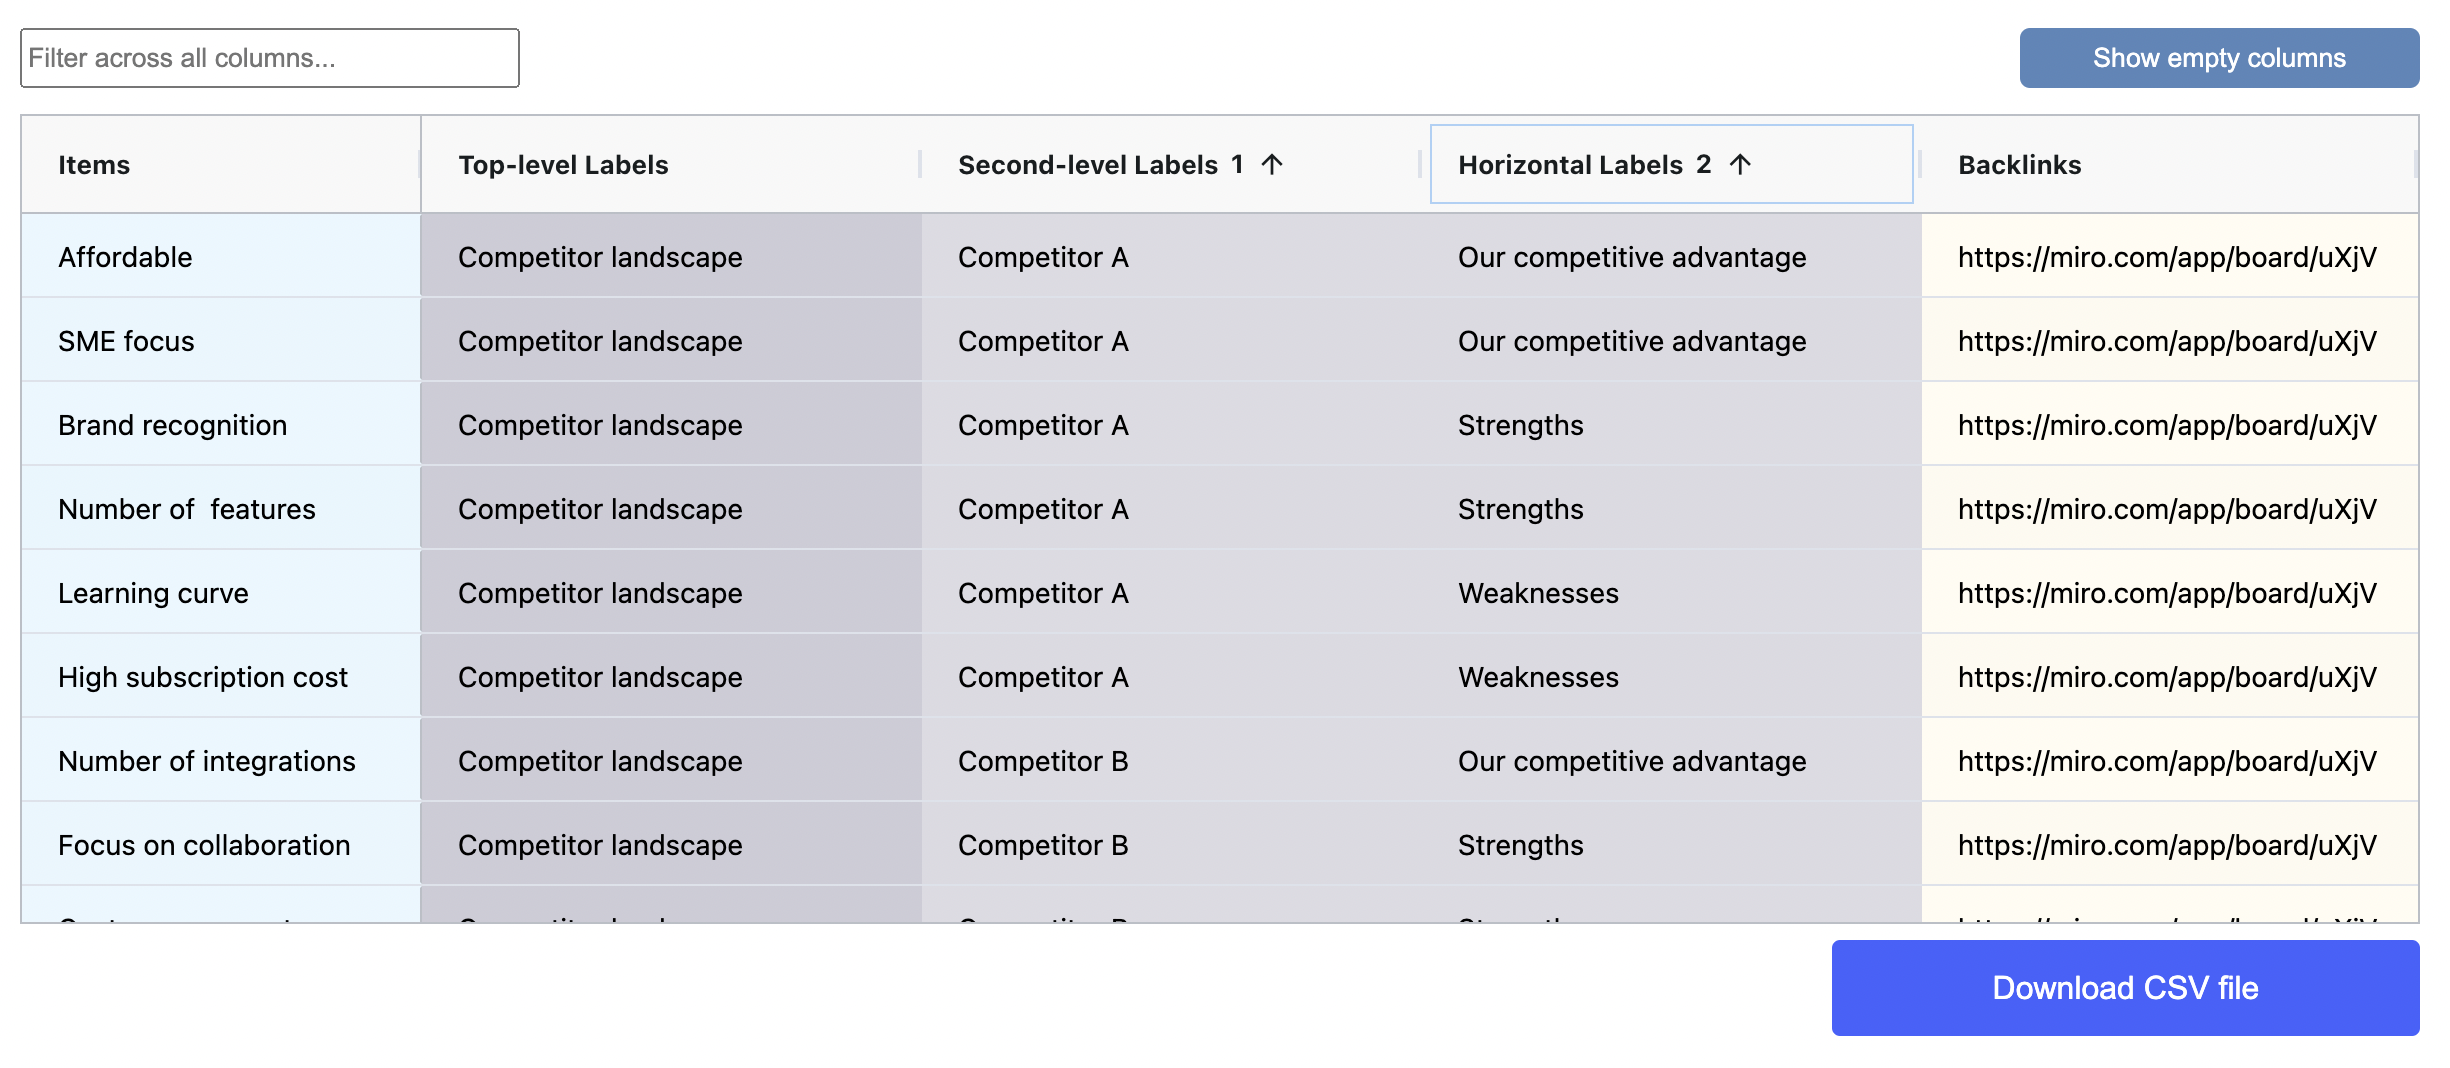
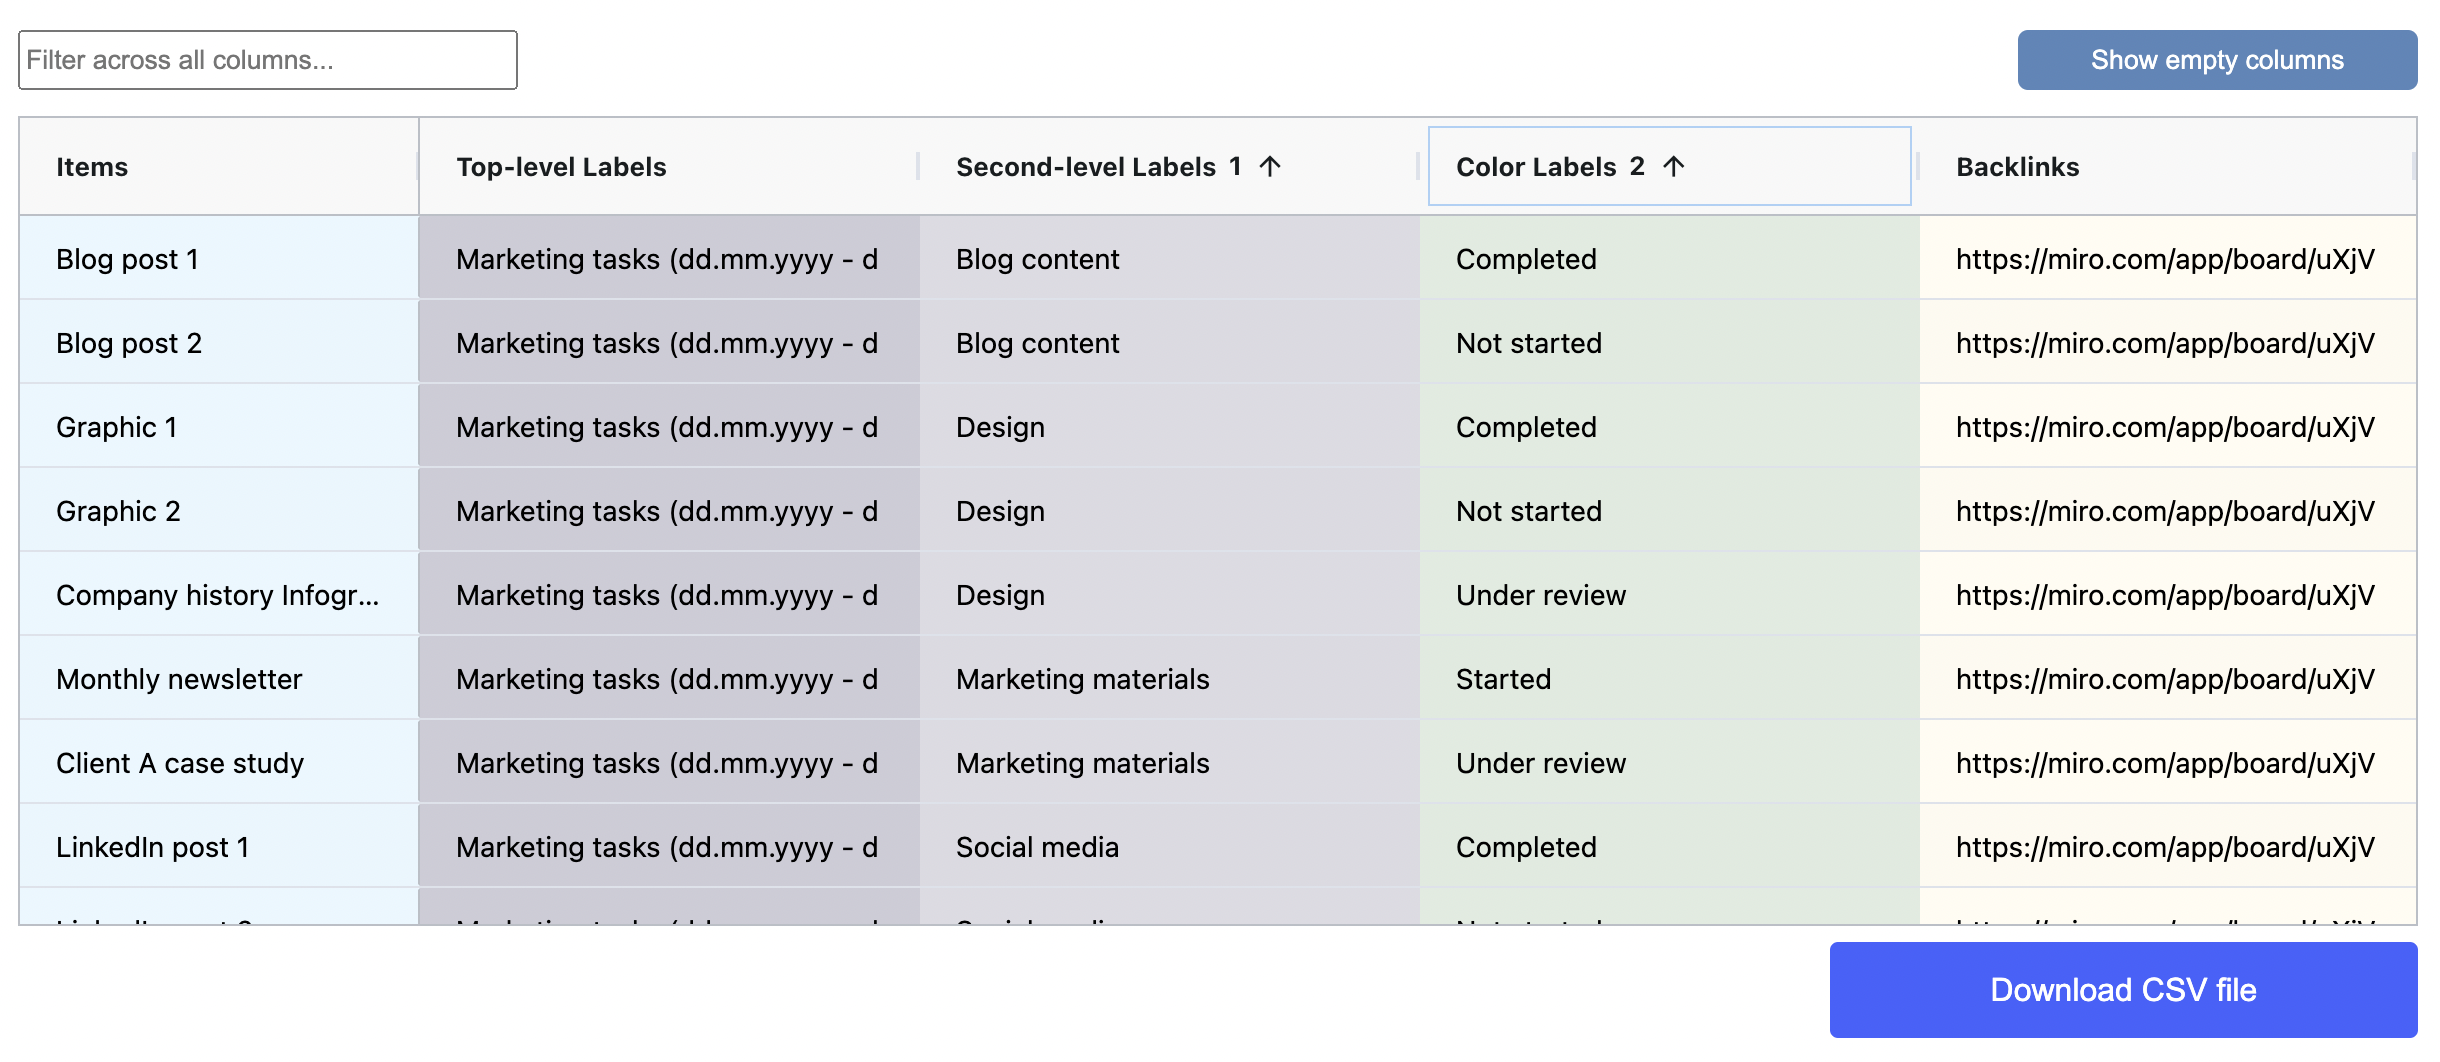
GITBOOK-169: change request with no subject merged in GitBook

diff --git a/results-tables/results-table-overview.md b/results-tables/results-table-overview.md
@@ -4,11 +4,11 @@ description: Get to you know the results table view
 
 # Results table overview
 
-The results table view displays your spatial tables in a table format and includes all relevant hierarchies and category types based on your input. It's an efficient way to assess your data and identify any conversion errors.&#x20;
+The results table view displays your [spatial tables](broken-reference) in a table format and includes all relevant hierarchies and category types based on your input. It's an efficient way to assess your data and identify any conversion errors.&#x20;
 
-With the ability to sort and filter your data, you can easily make changes to the information displayed.&#x20;
+With the ability to [sort](sort.md) and [filter](filter.md) your data, you can easily make changes to the information displayed.&#x20;
 
-Once you've reviewed and made any necessary changes, you can export your data as a CSV file for use in other applications.
+Once you've reviewed and made any necessary changes, you can [export](broken-reference) your data as a CSV file for use in other applications.
 
 <figure><img src="../.gitbook/assets/GettingStarted_Result_01 (1).png" alt=""><figcaption><p>A simple results table based on a spatial table </p></figcaption></figure>
 

diff --git a/results-tables/sort.md b/results-tables/sort.md
@@ -21,6 +21,6 @@ You can sort multiple columns simultaneously by following these steps:&#x20;
 1. Sort the first column as described above.&#x20;
 2. Hold down the shift button and click on the second column you would like to sort. The number "2" will appear in the second column, and you will be able to sort it in ascending or descending order. The second sort will be applied after the first sort.
 
-In the example below, sorting has been applied to the second-level vertical label column showing names of competitors (Competitor A, Competitor B) and the horizontal labels column showing Competitive advantages, Strengths and Weaknesses for each competitor.
+In the example below, sorting has been first applied to the second-level vertical label column showing marketing activity type (Blog content, Design, etc.) and then the color labels column. You can now easily examine the completion status of each task for each marketing activity.
 
 <figure><img src="../.gitbook/assets/Export_CSVexport_01.png" alt=""><figcaption></figcaption></figure>
